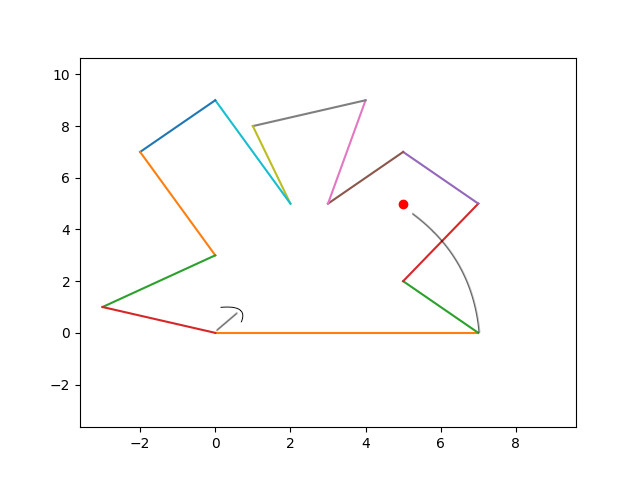
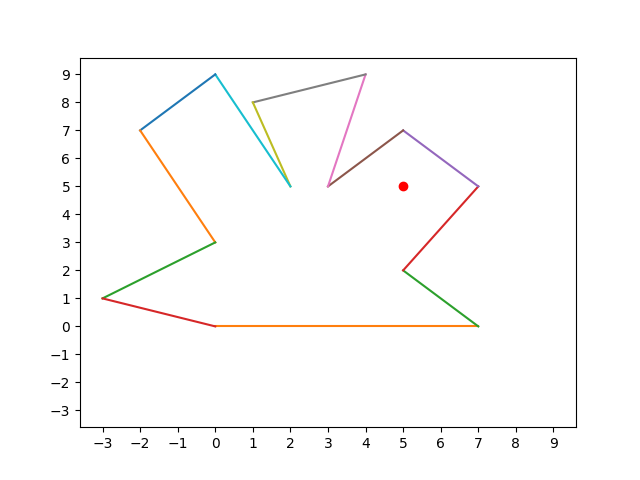
Update fence4

diff --git a/chapter6/fence4.java b/chapter6/fence4.java
@@ -175,7 +175,7 @@ static boolean doIntersect(Point p1, Point q1, Point p2, Point q2)
 
         double t = ((x1 - x3) * (y3 - y4) - (y1 - y3) * (x3 - x4)) / den;
         double u = -((x1 - x2) * (y1 - y3) - (y1 - y2) * (x1 - x3)) / den;
-        if (t >= 0 && t <= 1 && u >= 0 && u <= 1) {
+        if (t >= 0 && t <= 1 && u >= 0) {
             return 1;
             // Point pt = new Point();
             // pt.x = x1 + t * (x2 - x1);
@@ -186,6 +186,12 @@ static boolean doIntersect(Point p1, Point q1, Point p2, Point q2)
         }
     
     }
+    static double length(Line l)
+    {
+        int dx = l.a.x - l.b.x;
+        int dy = l.a.y - l.b.y;
+        return Math.sqrt(dx*dx + dy*dy);
+    }
 	// Return true if (pt-observer) line has no intersection in the middle
 	static boolean isGood(Point pt, Line line, int idx)
 	{
@@ -193,18 +199,38 @@ static boolean doIntersect(Point p1, Point q1, Point p2, Point q2)
 		Line ptObserver = new Line(observer.x, observer.y, pt.x, pt.y);
         Line otherEndObserver = new Line(observer.x, observer.y, otherEnd.x, otherEnd.y);
         int[] ptObserverDir = getDir(pt, observer);
-		boolean debug = line.toString().equals("1 50 0 50");
+		// boolean debug = line.toString().equals("2 10 0 10");
+        boolean debug = false;
 		for (int i = 0; i < n; i++) {
 			if (idx == i) continue;
 			Line cur = boundaries[i];
 			boolean endPtIntersect = (Point.equal(pt, cur.a) || Point.equal(pt, cur.b));
-			if (endPtIntersect) {
+            if (endPtIntersect) {
                 Point endPtOther = Point.equal(pt, cur.a) ? cur.b : cur.a;
+                // Line tot = new Line(otherEnd.x, otherEnd.y, endPtOther.x, endPtOther.y);
+                // if (Math.abs(length(tot) - (length(cur) + length(line))) < 0.1) {
+                //     continue;
+                // }
+                // if (endPtOther.x == otherEnd.x || endPtOther.y == otherEnd.y) {
+                //     continue;
+                // }
                 int[] ptCurDir = getDir(pt, endPtOther);
-                if (Arrays.equals(ptObserverDir, ptCurDir)) {
+                int[] otherEndCurDir = getDir(otherEnd, endPtOther);
+                int[] curObserverDir = getDir(endPtOther, observer);
+
+                if (Arrays.equals(ptObserverDir, ptCurDir) && Arrays.equals(curObserverDir, ptObserverDir)) {
+                    if (debug) {
+                        System.out.println("arrays.equals");
+                        System.out.println("line: " + line + ", cur: " + cur + ", pt: " + pt);
+                    }
                     return false;
                 }
-                if (hit(cur, otherEndObserver) != -1) {
+                boolean opposite = (ptObserverDir[0] + otherEndCurDir[0] == 0) && (ptObserverDir[1] + otherEndCurDir[1] == 0);
+                if (hit(cur, otherEndObserver) != -1 && !opposite) {
+                    if (debug) {
+                        System.out.println("hit");
+                        System.out.println("line: " + line + ", cur: " + cur + ", pt: " + pt);
+                    }
                     return false;
                 }
                 if (debug) {
@@ -248,6 +274,9 @@ static boolean doIntersect(Point p1, Point q1, Point p2, Point q2)
         List<Line> ans = new ArrayList<>();
 		for (int i = 0; i < n; i++) {
 			Line line = boundaries[i];
+            // if (line.toString().equals("2 98 0 98")) {
+            //     System.out.println("hv");
+            // }
 			if (isGood(line.a, line, i) || isGood(line.b, line, i)) {
 				ans.add(line);
 			}

diff --git a/chapter6/fence4.py b/chapter6/fence4.py
@@ -7,7 +7,7 @@ def add_point(x, y):
 	plt.plot(x, y, 'ro')
 
 def add_line(x1, y1, x2, y2):
-	plt.plot([x1, x2], [y1, y2])
+	plt.plot([x1, x2], [y1, y2], label = "{} {} {} {}".format(x1, x2, y1, y2))
 #define Matplotlib figure and axis
 fig, ax = plt.subplots()
 
@@ -55,6 +55,6 @@ for line in lines:
 	prev = cur
 add_line(first[0], first[1], prev[0], prev[1])
 ax.plot(mini, mini, maxi, maxi)
-plt.xticks(np.arange(mini, maxi+1, 5.0))
-plt.yticks(np.arange(mini, maxi+1, 5.0))
+plt.xticks(np.arange(mini, maxi+1, 1.0))
+plt.yticks(np.arange(mini, maxi+1, 1.0))
 plt.show()
